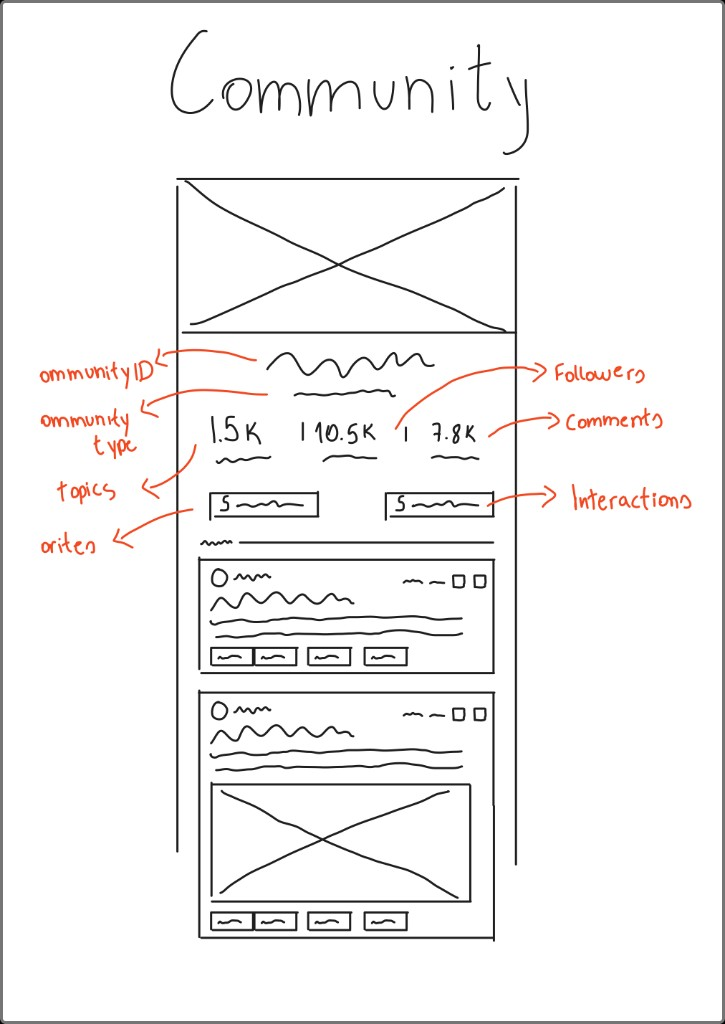
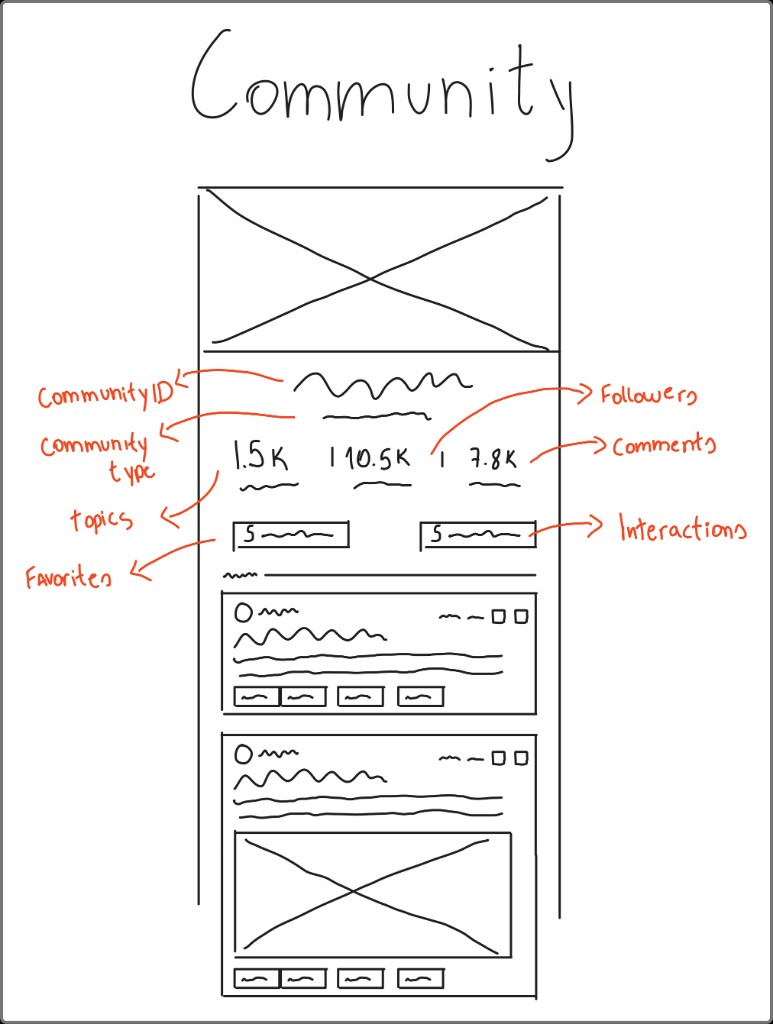
Update wireframe image and enlarge case figure frames to MVP scale.

Changed region(s): [[0.0303, 0.0312, 0.971, 1.0]]

diff --git a/src/components/case-study/CaseFigure.tsx b/src/components/case-study/CaseFigure.tsx
@@ -10,9 +10,9 @@ interface CaseFigureProps {
   variant?: "default" | "wireframe" | "diagram";
 }
 
-/** Shared frame for every case image — same height and padding as flows. */
+/** Shared frame — tall enough for MVP and portrait sketches at the same visual scale. */
 const FRAME =
-  "relative flex w-full items-center justify-center bg-white min-h-[420px] p-6 sm:min-h-[520px] sm:p-8";
+  "relative flex h-[560px] w-full items-center justify-center bg-white p-4 sm:h-[640px] sm:p-6";
 
 export function CaseFigure({
   figure,
@@ -58,7 +58,7 @@ export function CaseFigure({
               <img
                 src={figure.src}
                 alt={figure.alt}
-                className="max-h-full max-w-full object-contain object-center transition-transform duration-300 ease-out group-hover:scale-[1.03]"
+                className="h-full w-auto max-w-full object-contain object-center transition-transform duration-300 ease-out group-hover:scale-[1.02]"
                 loading="lazy"
                 decoding="async"
                 onError={() => setFailed(true)}